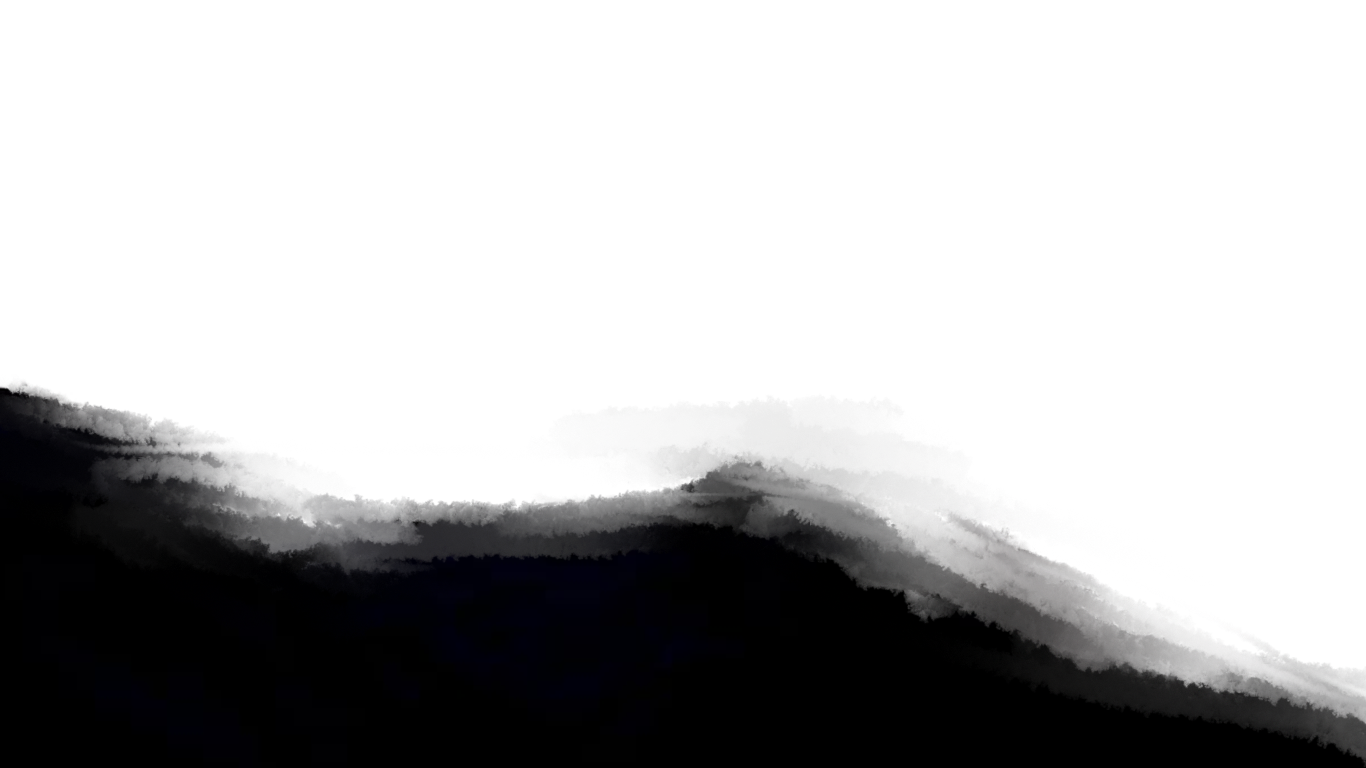
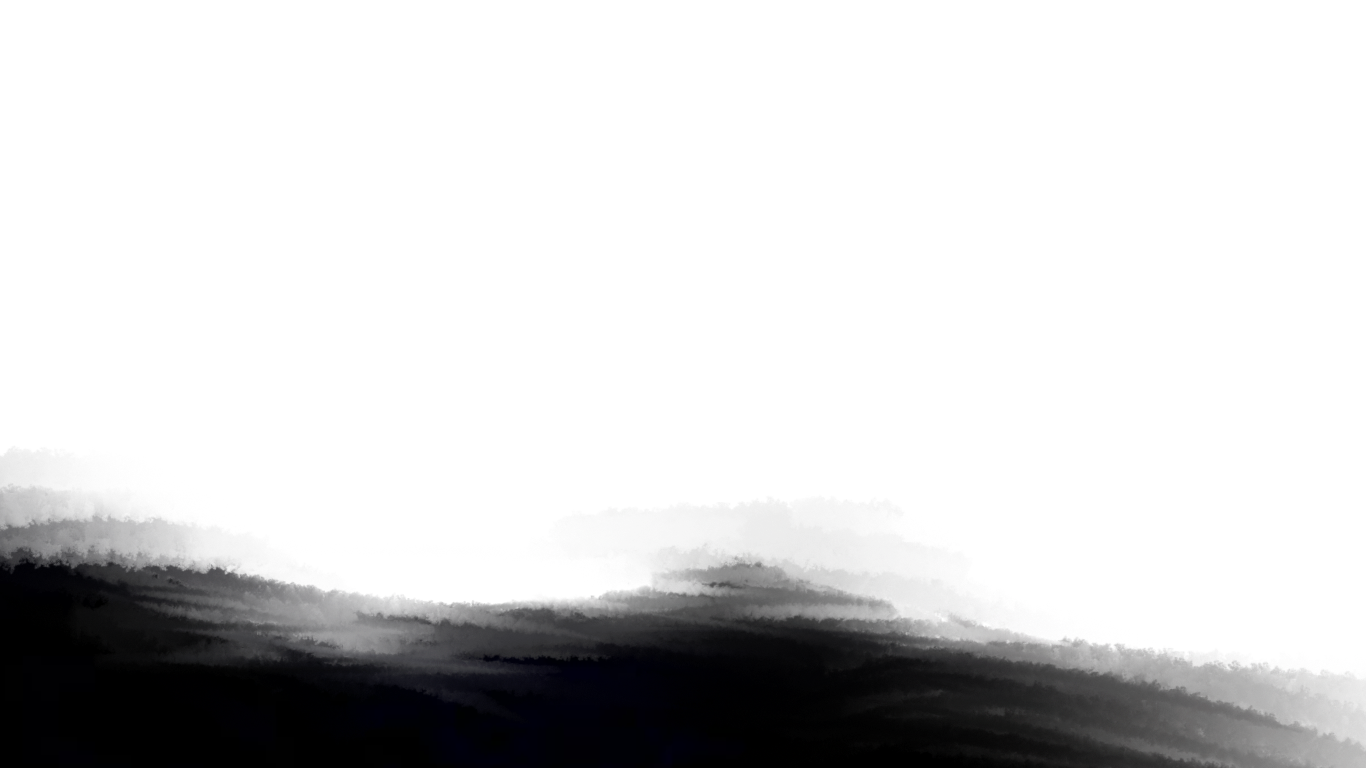
Delay petal morph until after scene warm-up and polish button/scene tweaks.
Particles stay snow during the background and tree transition, frosted buttons read slightly stronger, and mountain placement is nudged.

Changed region(s): [[0.0, 0.5, 1.0, 1.0]]

diff --git a/src/components/Button.jsx b/src/components/Button.jsx
@@ -54,8 +54,8 @@ const Button = ({
   const frostedStyle =
     isFrosted
       ? {
-          backgroundColor: 'rgba(255, 255, 255, 0.3)',
-          border: '1px solid rgba(255, 255, 255, 0.3)',
+          backgroundColor: 'rgba(255, 255, 255, 0.5)',
+          border: '1px solid rgba(255, 255, 255, 0.5)',
           color: TEXT_COLOR,
         }
       : undefined

diff --git a/src/App.jsx b/src/App.jsx
@@ -84,7 +84,7 @@ function App() {
     >
       <SceneBackground isWarm={isWarmVisualState} />
       <TreeScenery isWarm={isWarmVisualState} />
-      <MorphingParticlesOverlay isWarm={isWarmVisualState} />
+      <MorphingParticlesOverlay isWarm={isWarmState} />
       <Topbar
         onLogoClick={handleReset}
         onAboutClick={() => setShowAbout(true)}

diff --git a/src/index.css b/src/index.css
@@ -58,7 +58,7 @@ code {
 }
 
 .scene-mountains {
-  bottom: -100px;
+  bottom: -80px;
   height: auto;
   object-fit: cover;
   object-position: bottom center;